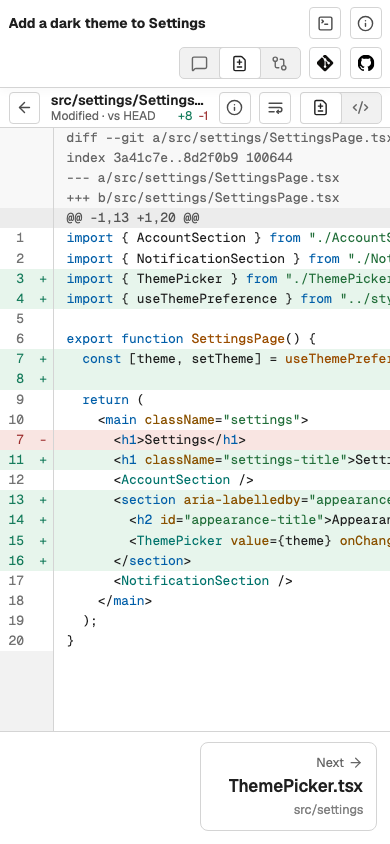
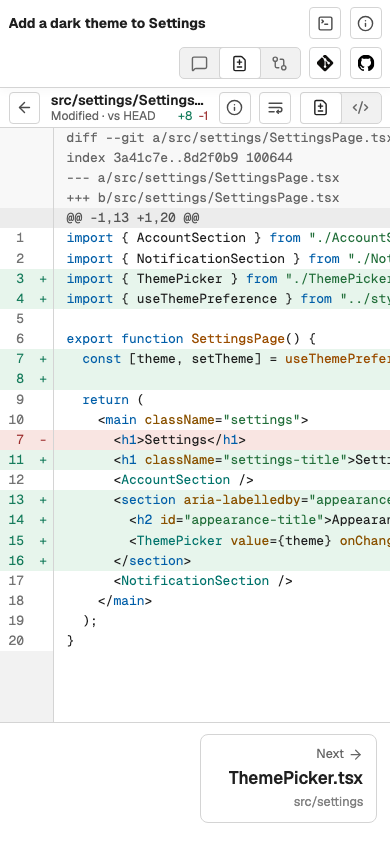
Fix the end-of-file file cards being cut off by a phone's rounded screen corners (#565)
On a phone held upright, the Previous and Next cards at the end of a diff or
file stopped 0.75rem above the screen's bottom edge, where the rounded corners
and the home indicator cut into them. They now keep 1.25rem below them there;
other screen sizes keep 0.75rem.

Changed region(s): [[0.5231, 0.8626, 0.9538, 0.9858]]

diff --git a/frontend/tests/e2e/tasks/review-git.spec.js b/frontend/tests/e2e/tasks/review-git.spec.js
@@ -2324,6 +2324,27 @@ test("keeps a card for a file at the repository root as tall as one with a folde
   expect(nextBox.height).toBe(previousBox.height);
 });
 
+test("stops the adjacent files higher above a phone's bottom edge", { tag: ["@desktop", "@phone"] }, async ({
+  page,
+}, testInfo) => {
+  const { tasksPage, taskReview } = await openCompletedTaskForReview(page);
+  await tasksPage.getByRole("button", { name: "Working Tree", exact: true }).click();
+  await taskReview
+    .locator('caffold-git-diff-changes-tree button[data-file-tree-relative-path="lib.rs"]')
+    .click();
+  const previous = taskReview.locator(".viewer-adjacent-previous");
+  await expect(previous).toContainText("Previous planner.rs");
+
+  // The short diff ends at the viewer's bottom with the cards.
+  const [previousBox, viewerBox, rootFontSize] = await Promise.all([
+    previous.boundingBox(),
+    taskReview.locator("caffold-diff-viewer").boundingBox(),
+    page.evaluate(() => Number.parseFloat(getComputedStyle(document.documentElement).fontSize)),
+  ]);
+  const space = viewerBox.y + viewerBox.height - (previousBox.y + previousBox.height);
+  expect(space).toBeCloseTo((testInfo.project.name === "phone" ? 1.25 : 0.75) * rootFontSize, 0);
+});
+
 test("ends a notice about a changed file with the files around it", { tag: "@server-steady" }, async ({
   page,
 }) => {

diff --git a/frontend/components/file-viewer.css b/frontend/components/file-viewer.css
@@ -640,3 +640,11 @@ dd {
   font-size: var(--interface-meta-font-size);
   direction: rtl;
 }
+
+/* A phone held upright ends the cards at its screen's rounded bottom corners,
+   so they stop higher above the edge there. */
+@media (max-width: 520px) and (orientation: portrait) {
+  .viewer-adjacent-files {
+    padding-bottom: max(var(--interface-space-10), env(safe-area-inset-bottom));
+  }
+}

diff --git a/docs/architecture/frontend.md b/docs/architecture/frontend.md
@@ -2016,7 +2016,8 @@ Visual leaves place them in their `end` slot, after the last line or under the
 pictures; a code or diff leaf's scroll content is a row that takes the rest of
 the viewer's height and a row for the cards, so the cards end a short file at
 the viewer's bottom, and they keep to the viewer's width while the lines scroll
-sideways. Choosing
+sideways. The cards keep 0.75rem of space below them, or 1.25rem on a phone
+held upright, which clears the screen's rounded corners. Choosing
 one sends `caffold:file-viewer-open-adjacent` with its path. Integrated Review
 hands over the changed files around one opened from Changes, in the order the
 list shows them, a file in both Working Tree groups counted where it first
